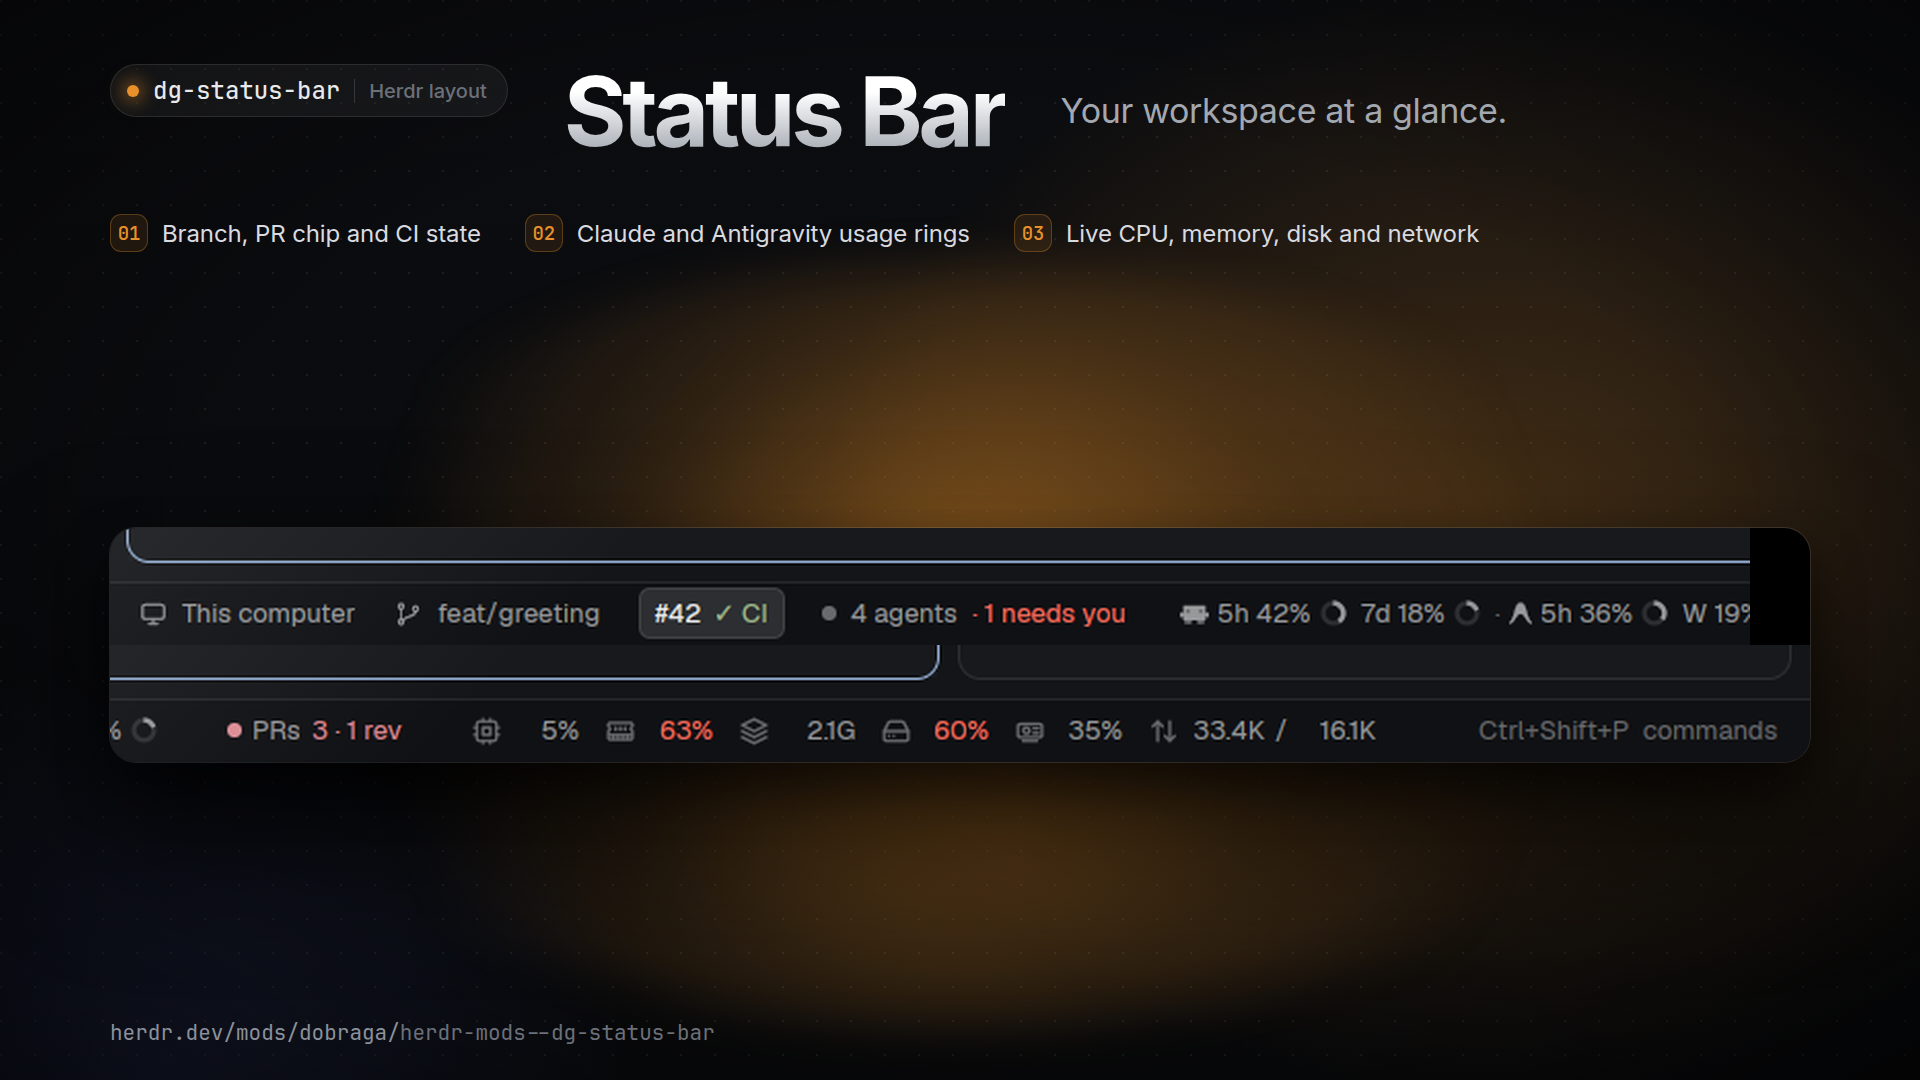
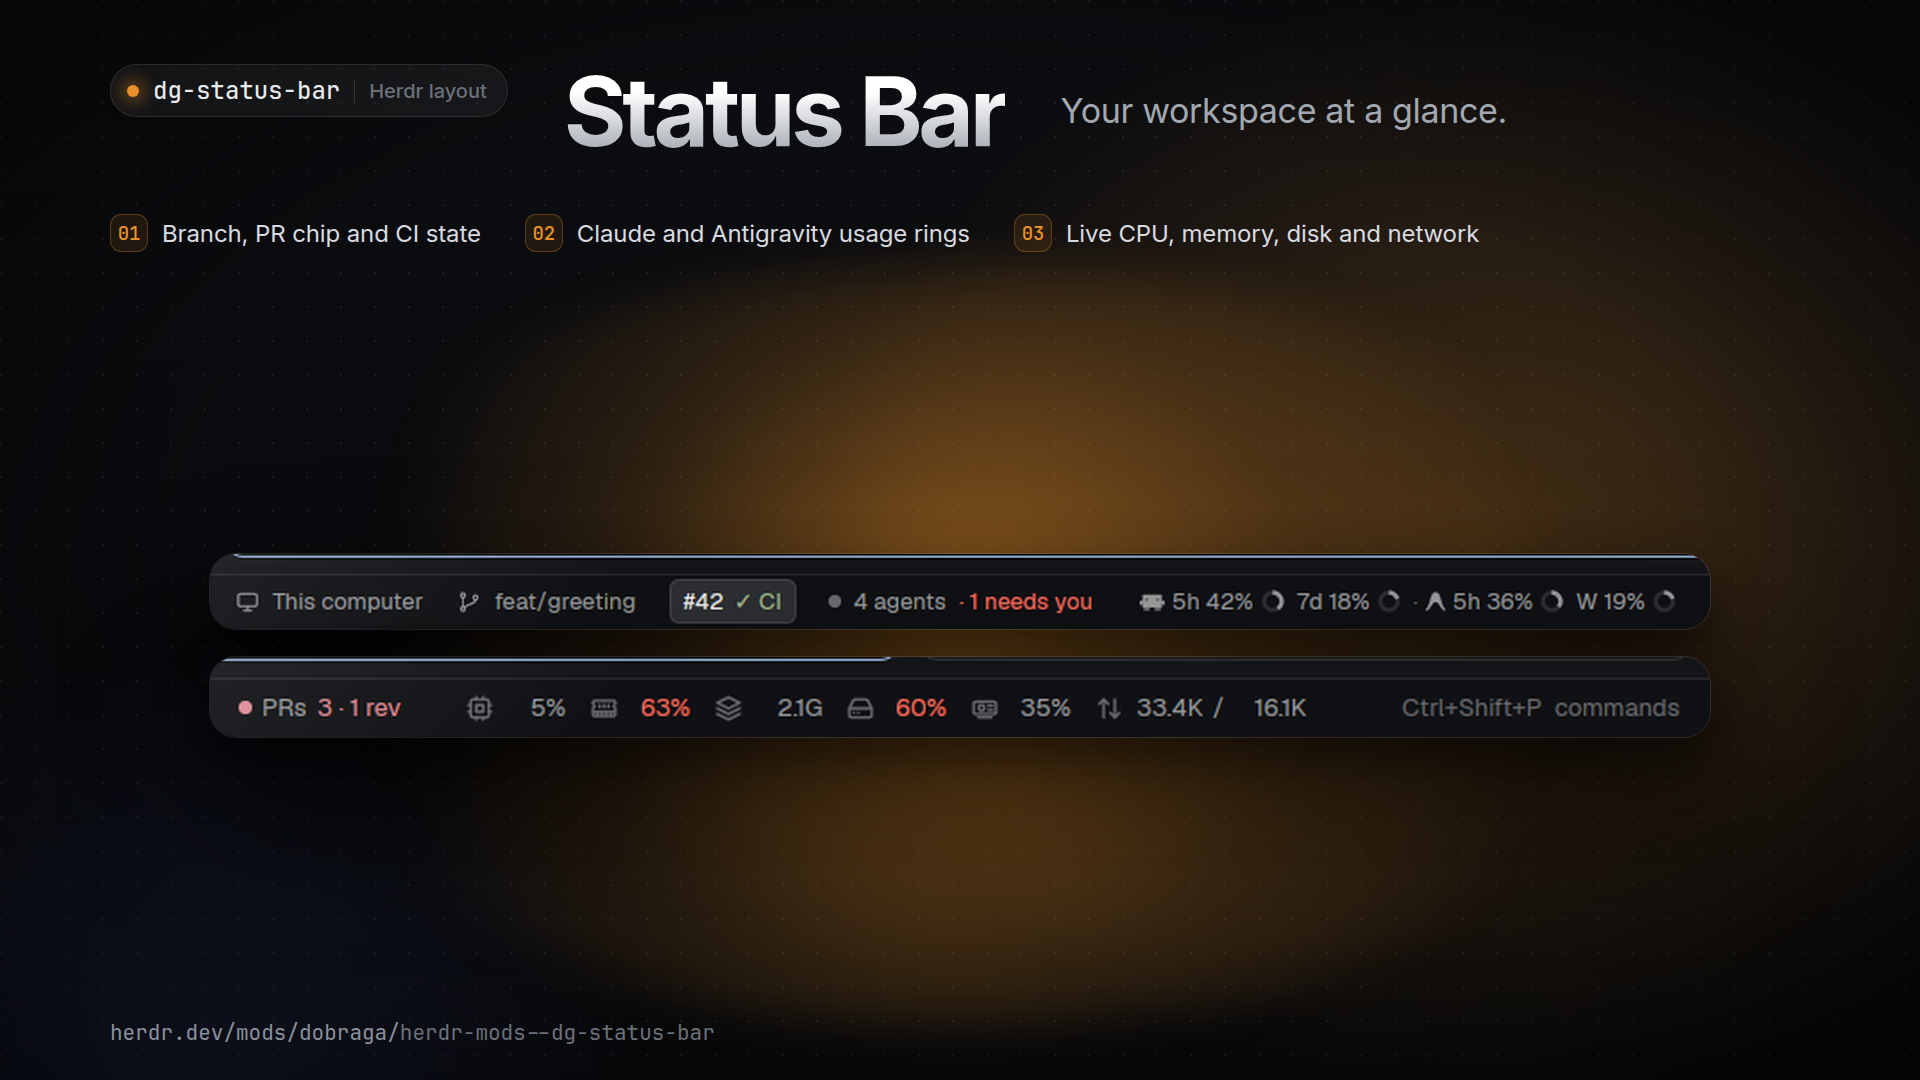
feat(previews): dg-status-bar preview shows the bar only, as two separate images (split crop)

Changed region(s): [[0.0312, 0.4889, 0.9688, 0.7639]]

diff --git a/tools/slides/template-wide.html b/tools/slides/template-wide.html
@@ -29,7 +29,7 @@
     background: rgba(232,145,42,.10); border: 1px solid rgba(232,145,42,.30); }
   .foot { position: absolute; left: 110px; bottom: 34px; font: 400 21px "JetBrains Mono", monospace; color: var(--dim); }
   .foot em { font-style: normal; color: #8b919a; }
-  .right { position: absolute; left: 110px; right: 110px; top: 290px; bottom: 80px; display: flex; align-items: center; justify-content: center; }
+  .right { position: absolute; left: 110px; right: 110px; top: 290px; bottom: 80px; display: flex; flex-direction: column; gap: 28px; align-items: center; justify-content: center; }
   .glow { position: absolute; width: 1500px; height: 760px; border-radius: 50%; background: radial-gradient(circle, rgba(232,145,42,.62), rgba(232,145,42,.16) 42%, transparent 70%); filter: blur(24px); }
   .shot { position: relative; max-width: 1700px; max-height: 690px; border-radius: 26px; overflow: hidden; line-height: 0;
     box-shadow: 0 0 0 1px rgba(255,255,255,.12), 0 2px 0 rgba(255,255,255,.08) inset, 0 70px 140px rgba(0,0,0,.75), 0 24px 48px rgba(0,0,0,.5); }

diff --git a/tools/slides/render.py b/tools/slides/render.py
@@ -45,15 +45,14 @@ def render(mod: str, slide: dict) -> Path:
     """Crop the shot, fill the template and screenshot it into `<mod>/preview.png`."""
     shots = Path(os.environ.get("SHOTS", "/dev/shm/slideshots"))
     with tempfile.TemporaryDirectory() as tmp:
-        crop = Path(tmp) / "crop.png"
-        _crop(shots / f"{mod}.png", slide["crop"]).save(crop)
+        crops = _crops(shots / f"{mod}.png", slide, Path(tmp))
         html = Path(tmp) / "slide.html"
         html.write_text(
             _fill(
                 (HERE / slide.get("template", "template.html")).read_text(),
                 mod,
                 slide,
-                crop,
+                crops,
             )
         )
         out = REPO / mod / "preview.png"
@@ -90,7 +89,7 @@ def _crop(shot: Path, box: list) -> Image.Image:
         for part in parts
     ]
     width = max(part.width for part in parts)
-    out = Image.new("RGB", (width, sum(part.height for part in parts)))
+    out = Image.new("RGB", (width, sum(part.height for part in parts)), parts[-1].getpixel((2, parts[-1].height // 2)))
     y = 0
     for part in parts:
         out.paste(part, (0, y))
@@ -98,7 +97,7 @@ def _crop(shot: Path, box: list) -> Image.Image:
     return out
 
 
-def _fill(template: str, mod: str, slide: dict, image: Path) -> str:
+def _fill(template: str, mod: str, slide: dict, images: list[Path]) -> str:
     points = "".join(
         f"<li><span>{i:02d}</span>{escape(p)}</li>"
         for i, p in enumerate(slide["points"], 1)
@@ -109,12 +108,33 @@ def _fill(template: str, mod: str, slide: dict, image: Path) -> str:
         "tsize": str(_title_size(slide["title"])),
         "lead": escape(slide["lead"]),
         "points": points,
-        "image": f"file://{image}",
-        "mask": _mask(slide.get("fade", [])),
     }
+    figure = '<figure class="shot"><img src="{{image}}" style="{{mask}}"></figure>'
+    mask = _mask(slide.get("fade", []))
+    figures = "".join(
+        figure.replace("{{image}}", f"file://{image}").replace("{{mask}}", mask)
+        for image in images
+    )
+    template = template.replace(figure, figures)
     for key, value in values.items():
         template = template.replace("{{" + key + "}}", value)
     return template
+
+
+def _crops(shot: Path, slide: dict, tmp: Path) -> list[Path]:
+    """Save the crop as one image, or as one image per box when the slide sets `split`."""
+    boxes = slide["crop"]
+    if not (slide.get("split") and isinstance(boxes[0], list)):
+        boxes = [boxes]
+    paths = []
+    for i, box in enumerate(boxes):
+        path = tmp / f"crop{i}.png"
+        image = _crop(shot, box)
+        if len(boxes) > 1:
+            image = image.resize((1500, round(image.height * 1500 / image.width)), Image.LANCZOS)
+        image.save(path)
+        paths.append(path)
+    return paths
 
 
 def _title_size(title: str) -> int:
